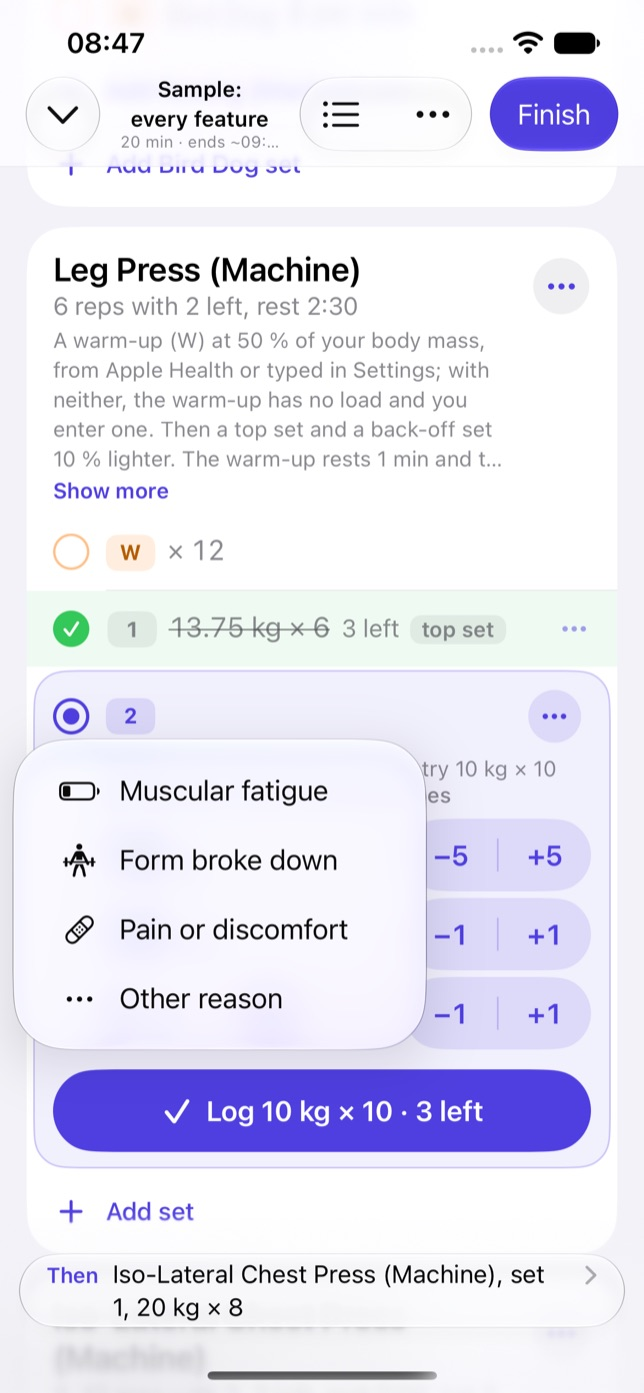
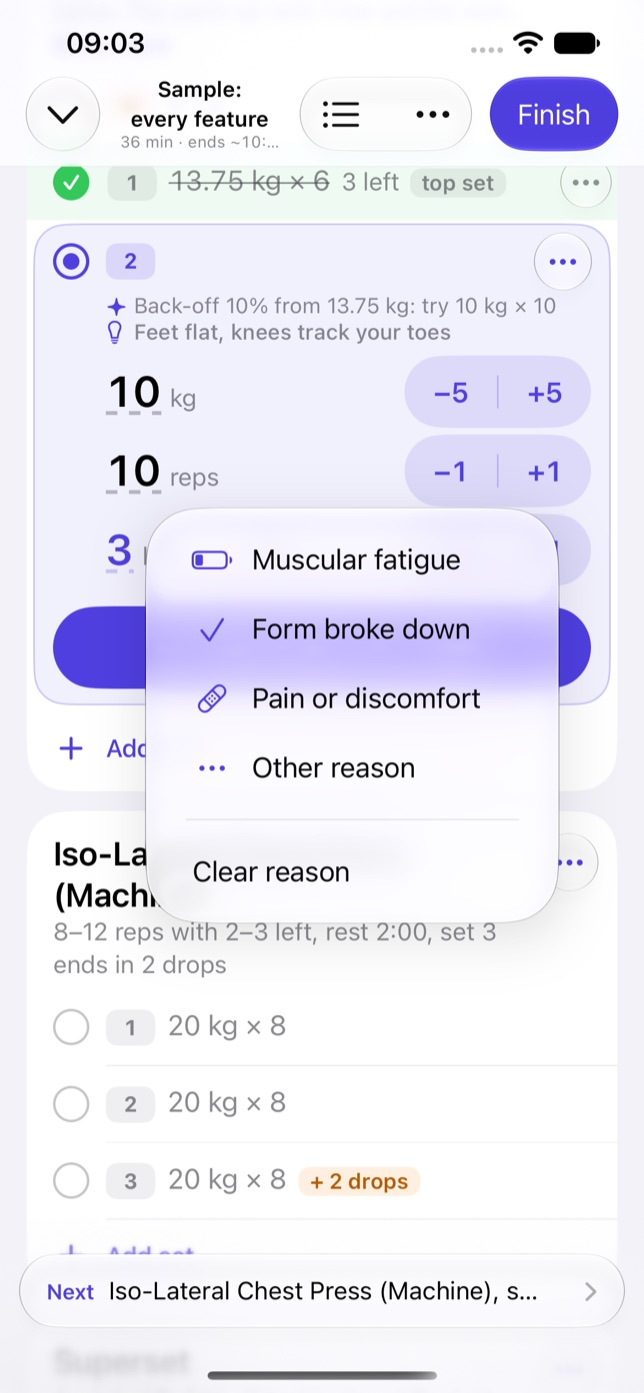
feat(workouts): menus grow out of glass buttons, and the island's after-line reads Next on one line
Every round button that opens a menu in a session, and on a routine's
plan, is a Liquid Glass circle (`RowsGlassIcon`, `rowsGlassCircle`), so
the system menu grows out of the button it was opened from instead of
fading in beside it. The reset and the fold chevron beside them are glass
too, so the round buttons match; a chosen stop reason fills its circle.

The island's line for the set after the next reads "Next" (it read
"Then") and takes one line, cut short at its end.

diff --git a/apps/workouts/apple/Sources/Views/Session/Rows/RowsEditorPanel.swift b/apps/workouts/apple/Sources/Views/Session/Rows/RowsEditorPanel.swift
@@ -283,14 +283,9 @@ struct RowsEditorPanel: View {
                         untick: editor.mode == .fix ? { screen.untick(editor.row, name: name, session: session) } : nil,
                         delete: { screen.delete(editor.row, name: name, session: session) })
                 } label: {
-                    Image(systemName: "ellipsis")
-                        .font(.subheadline.weight(.bold))
-                        .foregroundStyle(tint)
-                        .frame(width: 32, height: 32)
-                        .background(tint.opacity(0.13), in: .circle)
-                        .frame(width: 44, height: 44)
-                        .contentShape(.rect)
+                    RowsGlassIcon(systemImage: "ellipsis")
                 }
+                .rowsGlassCircle(tint: tint)
                 .accessibilityLabel("\(editor.title) options")
                 .accessibilityHint(editor.mode == .fix ? "Untick, delete, set kind, rest and note" : "Delete, set kind, rest and note")
             }
@@ -560,25 +555,6 @@ struct RowsLastText: View {
     }
 }
 
-/// A round button as tall as the stepper, beside it: the reset, why the set ended.
-struct RowsRoundButtonLabel: View {
-    let systemImage: String
-    let color: Color
-    /// Chosen: the colour fills the circle.
-    var isFilled = false
-
-    @ScaledMetric(relativeTo: .body) private var size: CGFloat = 44
-
-    var body: some View {
-        Image(systemName: systemImage)
-            .font(.body.weight(.semibold))
-            .foregroundStyle(isFilled ? Color.white : color)
-            .frame(width: size, height: size)
-            .background(isFilled ? color : color.opacity(0.13), in: .circle)
-            .contentShape(.circle)
-    }
-}
-
 /// `↺`, back to the suggestion, the plan's value or what was logged. Its
 /// place is kept while there is nothing to go back to, so the row does not
 /// shift under the thumb when a step makes one.
@@ -591,9 +567,9 @@ struct RowsResetButton: View {
         Button {
             if let reset { onPatch(reset.patch) }
         } label: {
-            RowsRoundButtonLabel(systemImage: "arrow.uturn.backward", color: tint)
+            RowsGlassIcon(systemImage: "arrow.uturn.backward", glyph: 30)
         }
-        .buttonStyle(.plain)
+        .rowsGlassCircle(tint: tint)
         .opacity(reset == nil ? 0 : 1)
         .disabled(reset == nil)
         .accessibilityLabel(reset?.accessibilityLabel ?? "")
@@ -718,7 +694,7 @@ struct RowsEffortRow: View {
     }
 }
 
-/// Why the set ended, a round button: `?` with none chosen, else the
+/// Why the set ended, a glass round button: `?` with none chosen, else the
 /// reason's symbol on its colour (pain in orange). A tap lists the four
 /// reasons and, with one chosen, `Clear reason`.
 struct RowsStopMenuButton: View {
@@ -744,10 +720,9 @@ struct RowsStopMenuButton: View {
                 Button("Clear reason") { onPatch(clear) }
             }
         } label: {
-            RowsRoundButtonLabel(
-                systemImage: menu.selected.map(Self.symbol) ?? "questionmark", color: color, isFilled: menu.selected != nil)
+            RowsGlassIcon(systemImage: menu.selected.map(Self.symbol) ?? "questionmark", glyph: 30)
         }
-        .buttonStyle(.plain)
+        .rowsGlassCircle(tint: color, isProminent: menu.selected != nil)
         .accessibilityLabel(menu.accessibilityLabel)
         .accessibilityValue(menu.accessibilityValue)
     }

diff --git a/apps/workouts/apple/Sources/Views/Session/Rows/RowsScreenModel.swift b/apps/workouts/apple/Sources/Views/Session/Rows/RowsScreenModel.swift
@@ -6,7 +6,7 @@ import WorkoutsCore
 /// being fixed and its draft, which field the keypad types into, which
 /// finished blocks and warm-up folds are open, the RPE meaning shown for a
 /// moment, the undo offer after a Log, an untick or a delete, the set a
-/// "Then" tap marks, the island's RPE picker, and what the list reports for
+/// "Next" tap marks, the island's RPE picker, and what the list reports for
 /// the island's dock (`RowsDock` decides it). The session lives in
 /// `SessionController`; this never holds a rule. Every value it shows and
 /// every change it sends comes from `SessionPresentation.rowsLayout`.
@@ -61,7 +61,7 @@ final class RowsScreenModel {
         var kind: Kind = .logged
     }
 
-    /// A set a "Then" tap took the list to, marked for a moment.
+    /// A set a "Next" tap took the list to, marked for a moment.
     struct Mark: Equatable {
         var row: RowID
         var token: Int
@@ -79,7 +79,7 @@ final class RowsScreenModel {
     var undo: Undo?
     /// The set just logged: tinted green for a moment.
     var fresh: RowID?
-    /// The set a "Then" tap took the list to.
+    /// The set a "Next" tap took the list to.
     var mark: Mark?
     /// The island's reps left, open on the docked set.
     var islandRPE: RowID?
@@ -381,7 +381,7 @@ final class RowsScreenModel {
         }
     }
 
-    /// "Then …": the list goes to that set and marks it for a moment; nothing opens.
+    /// "Next …": the list goes to that set and marks it for a moment; nothing opens.
     func showLine(_ row: RowID, session: SessionModel) {
         let mark = Mark(row: row, token: next())
         self.mark = mark

diff --git a/apps/workouts/apple/Sources/Views/Session/Rows/RowsIslandView.swift b/apps/workouts/apple/Sources/Views/Session/Rows/RowsIslandView.swift
@@ -25,7 +25,7 @@ struct RowsIslandView: View {
     let perform: (RowsAction) -> Void
     /// Brings the open set's full editor into view.
     let showOpenRow: () -> Void
-    /// Takes the list to a set and marks it ("Then …").
+    /// Takes the list to a set and marks it ("Next …").
     let showLine: (RowID) -> Void
     let finish: () -> Void
     let addExercise: () -> Void
@@ -97,21 +97,19 @@ struct RowsIslandView: View {
         }
     }
 
-    /// `Then  Calf Press (Machine), set 1, 60 kg × 12  ›`: a tap takes the
-    /// list to that set; the open set stays open.
+    /// `Next  Calf Press (Machine), set 1, 60 kg × 12  ›` on one line, cut
+    /// short at its end (owner, 2026-11-06): a tap takes the list to that
+    /// set; the open set stays open.
     @ViewBuilder
     private func afterLine(_ after: RowsAfterPart) -> some View {
         let content = HStack(alignment: .firstTextBaseline, spacing: 8) {
             Text(after.label)
                 .font(.footnote.weight(.semibold))
                 .foregroundStyle(Color.accentColor)
-            // Wraps between words rather than cutting a name in the middle;
-            // only what two lines (three at the accessibility sizes) cannot
-            // hold is cut, at its end.
             Text(after.text)
                 .font(.subheadline)
                 .foregroundStyle(.primary)
-                .lineLimit(typeSize.isAccessibilitySize ? 3 : 2)
+                .lineLimit(1)
                 .truncationMode(.tail)
             Spacer(minLength: 4)
             if after.row != nil {

diff --git a/apps/workouts/WorkoutsKit/Tests/WorkoutsCoreTests/RowsDockTests.swift b/apps/workouts/WorkoutsKit/Tests/WorkoutsCoreTests/RowsDockTests.swift
@@ -4,7 +4,7 @@ import Testing
 @testable import WorkoutsCore
 
 // The review of the three-part island (PR #1110): when the island docks the
-// open set, what "Then …" may open, a group's warm-up in the island, and the
+// open set, what "Next …" may open, a group's warm-up in the island, and the
 // minimised bar while a timed set runs.
 
 private let set1 = RowID("set-1")
@@ -267,9 +267,9 @@ struct RowsDockTests {
     }
 }
 
-@Suite("Rows island: \"Then\" takes the list to the set, never opens it", .timeLimit(.minutes(10)))
+@Suite("Rows island: \"Next\" takes the list to the set, never opens it", .timeLimit(.minutes(10)))
 struct RowsAfterActionTests {
-    /// Every "Then" line that names a row names one the list shows, so a tap lands on it.
+    /// Every "Next" line that names a row names one the list shows, so a tap lands on it.
     private func expectEveryLineLands(_ start: RowsSession, logs: Int) throws {
         var session = start
         var second = 10
@@ -298,7 +298,7 @@ struct RowsAfterActionTests {
         #expect(lines > 10, "\(lines) lines")
     }
 
-    @Test("walking two whole sessions, every \"Then\" that names a set names a line in the list")
+    @Test("walking two whole sessions, every \"Next\" that names a set names a line in the list")
     func everyLineLands() throws {
         try expectEveryLineLands(try RowsSession.dayOne(), logs: 40)
         try expectEveryLineLands(try RowsSession.fullyBody(), logs: 40)

diff --git a/apps/workouts/apple/Sources/Views/Session/Rows/RowsStyle.swift b/apps/workouts/apple/Sources/Views/Session/Rows/RowsStyle.swift
@@ -252,6 +252,35 @@ struct RowsFilledButtonStyle: ButtonStyle {
     }
 }
 
+/// A round button's symbol on a Liquid Glass circle (`rowsGlassCircle`):
+/// a menu's grows out of the button it was opened from, rather than fading
+/// in beside it (owner, 2026-11-06). `glyph` is the symbol's frame; the
+/// glass adds its own padding (20 draws a 34 pt circle, 30 one as tall as a stepper).
+struct RowsGlassIcon: View {
+    let systemImage: String
+    var glyph: CGFloat = 20
+
+    @ScaledMetric(relativeTo: .body) private var scale: CGFloat = 1
+
+    var body: some View {
+        Image(systemName: systemImage)
+            .font(.body.weight(.semibold))
+            .frame(width: glyph * scale, height: glyph * scale)
+    }
+}
+
+extension View {
+    /// A button or menu as a glass circle in `tint`; `isProminent` fills it (a choice made).
+    @ViewBuilder
+    func rowsGlassCircle(tint: Color, isProminent: Bool = false) -> some View {
+        if isProminent {
+            buttonStyle(.glassProminent).buttonBorderShape(.circle).tint(tint)
+        } else {
+            buttonStyle(.glass).buttonBorderShape(.circle).tint(tint)
+        }
+    }
+}
+
 /// A tinted capsule button: the secondary beside Start or Stop.
 struct RowsTintedButtonStyle: ButtonStyle {
     let tint: Color

diff --git a/apps/workouts/apple/Sources/Views/Session/Rows/RowsBlockView.swift b/apps/workouts/apple/Sources/Views/Session/Rows/RowsBlockView.swift
@@ -145,9 +145,9 @@ struct RowsBlockView: View {
                 Button {
                     withAnimation(.smooth(duration: 0.25)) { _ = screen.expanded.remove(block.id) }
                 } label: {
-                    roundIcon("chevron.up")
+                    RowsGlassIcon(systemImage: "chevron.up")
                 }
-                .buttonStyle(.plain)
+                .rowsGlassCircle(tint: .accentColor)
                 .accessibilityLabel("Fold \(spokenTitle)")
             }
             menu
@@ -201,19 +201,10 @@ struct RowsBlockView: View {
                 ExerciseMenuItems(card: card, group: nil, allCards: presentation.cards)
             }
         } label: {
-            roundIcon("ellipsis")
+            RowsGlassIcon(systemImage: "ellipsis")
         }
+        .rowsGlassCircle(tint: .accentColor)
         .accessibilityLabel("\(spokenTitle) options")
-    }
-
-    private func roundIcon(_ symbol: String) -> some View {
-        Image(systemName: symbol)
-            .font(.body.weight(.bold))
-            .foregroundStyle(Color.accentColor)
-            .frame(width: 34, height: 34)
-            .background(Color(.tertiarySystemFill), in: .circle)
-            .frame(width: 44, height: 44)
-            .contentShape(.rect)
     }
 
     // MARK: - Lines

diff --git a/apps/workouts/apple/Sources/Views/Session/Rows/RowsLines.swift b/apps/workouts/apple/Sources/Views/Session/Rows/RowsLines.swift
@@ -20,7 +20,7 @@ struct RowsSetLine<MenuItems: View>: View {
     var isResting = false
     /// Just logged: a green wash for a moment.
     var isFresh = false
-    /// A "Then" tap took the list here: an accent wash for a moment.
+    /// A "Next" tap took the list here: an accent wash for a moment.
     var isMarked = false
     /// A done set: a tap on its check unticks it.
     var onUntick: (() -> Void)?
@@ -47,12 +47,9 @@ struct RowsSetLine<MenuItems: View>: View {
                 Menu {
                     menuItems()
                 } label: {
-                    Image(systemName: "ellipsis")
-                        .font(.subheadline.weight(.bold))
-                        .foregroundStyle(.secondary)
-                        .frame(width: 44, height: 44)
-                        .contentShape(.rect)
+                    RowsGlassIcon(systemImage: "ellipsis", glyph: 16)
                 }
+                .rowsGlassCircle(tint: .secondary)
                 .accessibilityLabel("\(item.sentence) options")
                 .accessibilityHint("Untick, delete, set kind, rest and note")
                 .padding(.trailing, 4)

diff --git a/apps/workouts/WorkoutsKit/Tests/WorkoutsCoreTests/RowsPresenterTests.swift b/apps/workouts/WorkoutsKit/Tests/WorkoutsCoreTests/RowsPresenterTests.swift
@@ -210,8 +210,8 @@ struct RowsOpenSetTests {
         #expect(
             island.after
                 == RowsAfterPart(
-                    row: set3.id, label: "Then", text: "Set 3, 105 kg × 10",
-                    sentence: "Then Set 3, 105 kg × 10"))
+                    row: set3.id, label: "Next", text: "Set 3, 105 kg × 10",
+                    sentence: "Next: Set 3, 105 kg × 10"))
         #expect(!island.isCounting)
     }
 
@@ -683,8 +683,8 @@ struct RowsStructureTests {
         #expect(
             pausing.island.after
                 == RowsAfterPart(
-                    row: nil, label: "Then", text: "Mini-set 2",
-                    sentence: "Then Mini-set 2"))
+                    row: nil, label: "Next", text: "Mini-set 2",
+                    sentence: "Next: Mini-set 2"))
 
         try session.tick("lateral-raise", 2, SetValues(load: .kg(6), reps: 4), at: 230)
         try session.tick("lateral-raise", 3, SetValues(load: .kg(6), reps: 4), at: 260)

diff --git a/apps/workouts/WorkoutsKit/Tests/WorkoutsCoreTests/RowsIslandTests.swift b/apps/workouts/WorkoutsKit/Tests/WorkoutsCoreTests/RowsIslandTests.swift
@@ -23,7 +23,7 @@ struct RowsIslandTests {
         let next = RowsNextPart(
             row: RowID("r1"), exercise: "Leg Press (Machine)", setLabel: "1", label: "", tint: .accent,
             fields: [], rpe: nil, primary: button, timerStartedAt: nil, sentence: "")
-        let after = RowsAfterPart(row: RowID("r2"), label: "Then", text: "Set 2, 90 kg × 10", sentence: "")
+        let after = RowsAfterPart(row: RowID("r2"), label: "Next", text: "Set 2, 90 kg × 10", sentence: "")
         let rest = RowsRestPart(
             kind: .rest, title: "Rest", startedAt: engineEpoch, endsAt: engineEpoch.addingTimeInterval(90),
             totalText: "of 1:30", minus: button, plus: button, skip: button)

diff --git a/apps/workouts/apple/Sources/Views/Routines/Plan/RoutinePlanCards.swift b/apps/workouts/apple/Sources/Views/Routines/Plan/RoutinePlanCards.swift
@@ -232,14 +232,9 @@ private struct PlanBlockCard: View {
                 change(edit) { $0.removeBlocks(at: [index]) }
             }
         } label: {
-            Image(systemName: "ellipsis")
-                .font(.body.weight(.bold))
-                .foregroundStyle(Color.accentColor)
-                .frame(width: 34, height: 34)
-                .background(Color(.tertiarySystemFill), in: .circle)
-                .frame(width: 44, height: 44)
-                .contentShape(.rect)
+            RowsGlassIcon(systemImage: "ellipsis")
         }
+        .rowsGlassCircle(tint: .accentColor)
         .accessibilityLabel("\(block.spokenTitle) options")
     }
 

diff --git a/apps/workouts/apple/Sources/Views/Routines/Plan/PlanSetPanel.swift b/apps/workouts/apple/Sources/Views/Routines/Plan/PlanSetPanel.swift
@@ -84,12 +84,9 @@ struct PlanSetPanel<MenuItems: View>: View {
             Menu {
                 menuItems()
             } label: {
-                Image(systemName: "ellipsis")
-                    .font(.subheadline.weight(.bold))
-                    .foregroundStyle(.secondary)
-                    .frame(width: 44, height: 44)
-                    .contentShape(.rect)
+                RowsGlassIcon(systemImage: "ellipsis")
             }
+            .rowsGlassCircle(tint: .secondary)
             .accessibilityLabel("\(editor.title) options")
         }
         .frame(minHeight: 44)

diff --git a/apps/workouts/WorkoutsKit/Sources/WorkoutsCore/Present/Rows/RowsPresenter.swift b/apps/workouts/WorkoutsKit/Sources/WorkoutsCore/Present/Rows/RowsPresenter.swift
@@ -931,7 +931,7 @@ struct RowsBuilder {
         let after = afterRow(open)
         guard let next = after.next, next != open else { return nil }
         let text = nextText(next, from: open, in: after.state).capitalizedFirst
-        return RowsAfterPart(row: lineShowing(next, in: blocks), label: "Then", text: text, sentence: "Then \(text)")
+        return RowsAfterPart(row: lineShowing(next, in: blocks), label: "Next", text: text, sentence: "Next: \(text)")
     }
 
     /// The line a tap on "Then" takes the list to: the set's own, or for a
